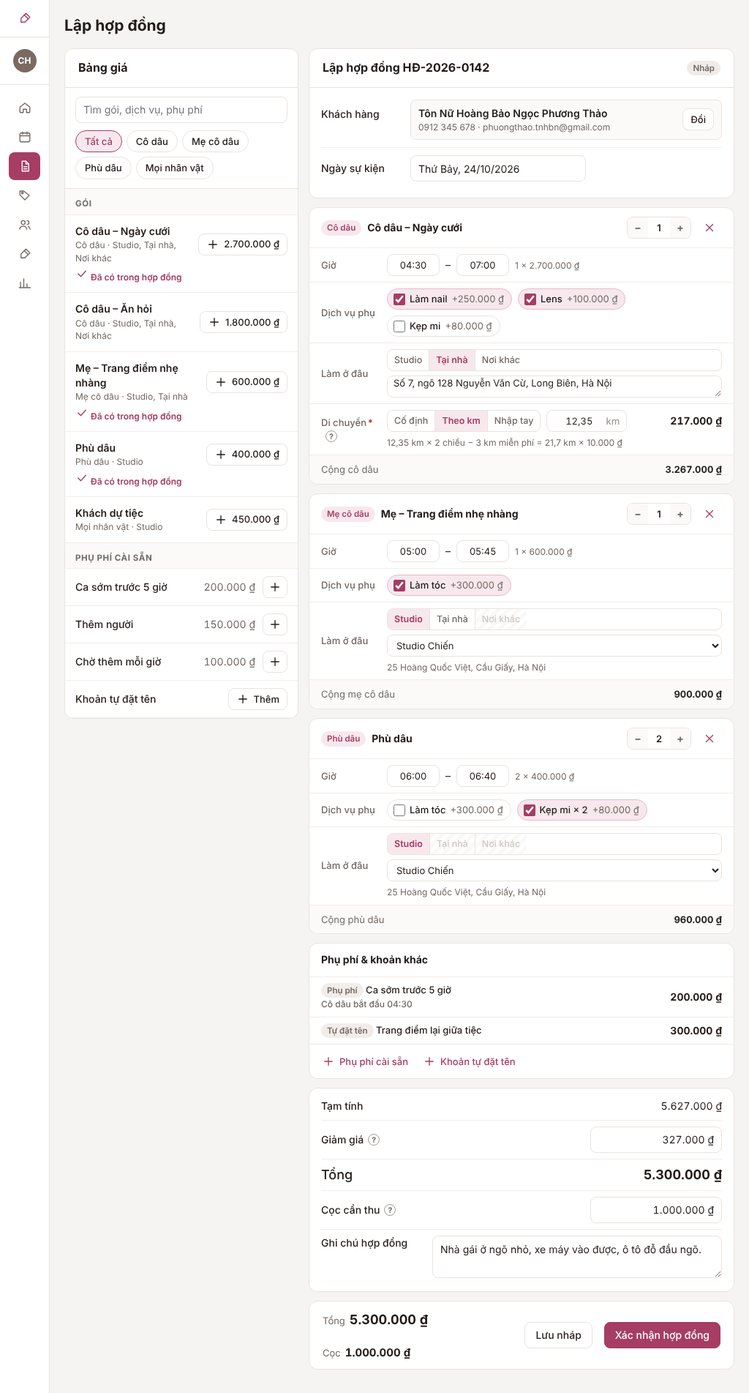
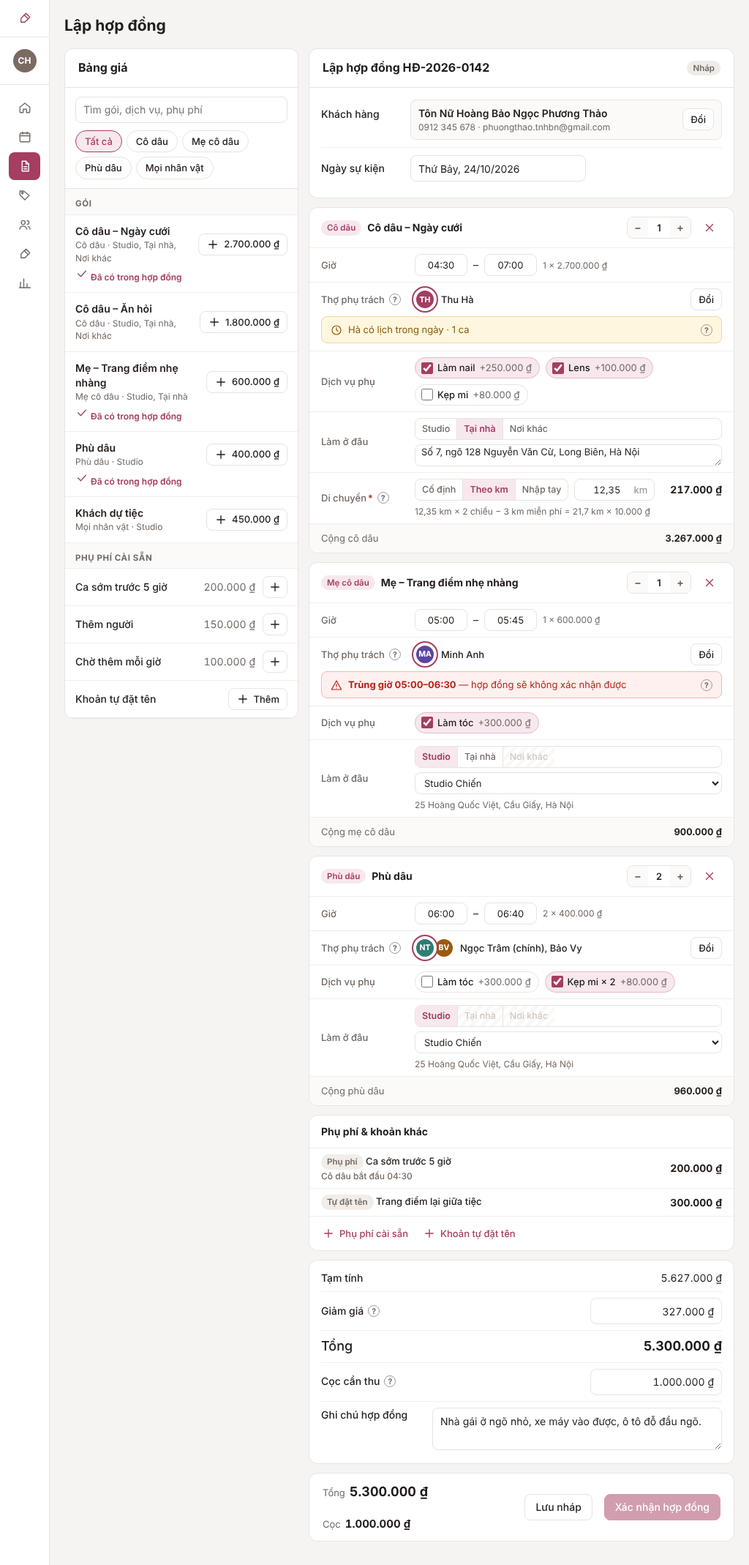
R&D: hàng Thợ phụ trách + ô chọn thợ có cảnh báo; sổ lỗi mục 13; sổ ý muốn: yêu cầu trung tâm đào tạo
Claude-Session: https://claude.ai/code/session_01JtcbzsRF6LmqL5L8fC9fxM

diff --git a/docs/rnd/v2-phuong-an-C.html b/docs/rnd/v2-phuong-an-C.html
@@ -215,7 +215,7 @@ textarea.ctl{height:auto;padding:8px 10px;resize:vertical}
 .ln2 .hd{display:flex;align-items:center;gap:8px;padding:12px 16px;flex-wrap:wrap}
 .ln2 .hd .n{font-weight:700}
 .ln2 .hd .sp{flex:1}
-.ln2 .rw{display:grid;grid-template-columns:96px minmax(0,1fr);gap:10px;align-items:center;padding:8px 16px;border-top:1px solid var(--line-2)}
+.ln2 .rw{display:grid;grid-template-columns:118px minmax(0,1fr);gap:10px;align-items:center;padding:8px 16px;border-top:1px solid var(--line-2)}
 .ln2 .rw>span:first-child{font-size:13px;color:var(--muted);font-weight:500}
 .ln2 .rw .fl{display:flex;flex-wrap:wrap;gap:8px;align-items:center}
 .ln2 .ft{display:flex;justify-content:space-between;padding:10px 16px;border-top:1px solid var(--line-2);background:var(--soft);border-radius:0 0 12px 12px;font-size:13px}
@@ -237,7 +237,7 @@ textarea.ctl{height:auto;padding:8px 10px;resize:vertical}
   .pg3{grid-template-columns:180px minmax(0,1fr) 320px}
   .drw .set{grid-template-columns:minmax(0,1fr) 140px}
   .hd2{grid-template-columns:320px minmax(0,1fr);gap:14px}
-  .ln2 .rw{grid-template-columns:80px minmax(0,1fr)}
+  .ln2 .rw{grid-template-columns:118px minmax(0,1fr)}
 }
 @media (max-width:640px){
   .pg3{grid-template-columns:minmax(0,1fr);min-height:0}
@@ -286,6 +286,36 @@ textarea.ctl{height:auto;padding:8px 10px;resize:vertical}
   .dlg-bg{display:none}
   .mfoot{display:flex;justify-content:flex-end;gap:8px;margin-top:12px}
 }
+
+/* Thợ phụ trách (bổ sung 18/10/2026) */
+.ln2 .rw .tn{font-size:13px;font-weight:500;min-width:0}
+.ln2 .rw .grow{flex:1}
+.ln2 .rw.tho .avs .av+.av{margin-left:-2px}
+.av.chinh{box-shadow:0 0 0 2px #fff,0 0 0 4px var(--accent)}
+.avs .av.chinh{position:relative;z-index:1}
+.lnk{color:var(--accent);font-weight:600;font-size:13px;text-decoration:none}
+.wb{display:flex;align-items:center;gap:8px;margin:0 16px 10px;padding:8px 12px;border-radius:8px;font-size:13px;border:1px solid}
+.wb svg{width:16px;height:16px}
+.wb span{flex:1;min-width:0}
+.wb.red{background:var(--danger-bg);border-color:var(--danger-line);color:var(--danger)}
+.wb.yel{background:var(--warn-bg);border-color:var(--warn-line);color:var(--warn)}
+.btn:disabled{opacity:.5;cursor:not-allowed}
+.pick-t{width:min(560px,100%)}
+.pk-ls{overflow:auto}
+.pr-t{display:flex;align-items:center;gap:10px;padding:10px 18px;border-bottom:1px solid var(--line-2);cursor:pointer}
+.pr-t.on{background:var(--accent-soft)}
+.pr-t.off{color:var(--faint);cursor:not-allowed}
+.pr-t.off .av{opacity:.45}
+.pr-t .tt2{flex:1;min-width:0;display:flex;flex-direction:column;gap:3px}
+.pr-t .tt2 b{font-weight:600}
+.pr-t .nh{display:flex;flex-wrap:wrap;gap:6px;align-items:center}
+.pr-t .role{flex:none}
+.sd summary{list-style:none;cursor:pointer}
+.sd summary::-webkit-details-marker{display:none}
+.sd[open] .fx{margin-top:4px}
+.pk-ft{display:flex;justify-content:flex-end;gap:8px;padding:12px 18px;border-top:1px solid var(--line)}
+@media (min-width:641px){ .sheet{display:none!important} }
+@media (max-width:640px){ .wb{margin:0 14px 10px} .pr-t{padding:10px 14px} }
 
 </style>
 </head>
@@ -534,6 +564,67 @@ function veNhom(k,tieu){
   if(k==='dc')body=`<div class="dcg">${nhomDiChuyen().map(x=>`<div class="card" style="padding:0 18px 8px">${khoiNhom(x)}</div>`).join('')}</div>`;
   return `<div class="ph"><h1>${tieu}</h1></div>${seg}${body}`;
 }
+
+/* ---------- THỢ PHỤ TRÁCH (bổ sung 18/10/2026) ----------
+   Dòng gói: lines[].staff[{membershipId, role PRIMARY|ASSIST}]
+   Ô chọn:   GET /orgs/:orgId/staff/availability?startsAt&endsAt&excludeContractId
+             → mỗi thợ {displayName, avatarUrl, initials, tier, isBookable, level OVERLAP|SAME_DAY|FREE, overlaps[], sameDay[], draftHolds[]}
+   Cảnh báo trong thẻ: quote.staffWarnings theo dòng */
+const THO=[
+ {id:'m1',ten:'Nguyễn Thu Hà',vt:'TH',mau:'#A63D62',bac:'Thợ chính bậc 1',nhan:true},
+ {id:'m2',ten:'Trần Minh Anh',vt:'MA',mau:'#5B45A0',bac:'Thợ chính bậc 1',nhan:true},
+ {id:'m3',ten:'Lê Ngọc Trâm',vt:'NT',mau:'#2F7D72',bac:'Thợ chính bậc 2',nhan:true},
+ {id:'m4',ten:'Phạm Bảo Vy',vt:'BV',mau:'#9A5B0F',bac:'Thợ phụ',nhan:true},
+ {id:'m5',ten:'Đỗ Khánh Linh',vt:'KL',mau:'#7A6A62',bac:'Thợ phụ',nhan:false},
+];
+const tho=id=>THO.find(t=>t.id===id);
+// Thợ đã gán cho từng dòng
+const GAN={l1:[['m1','PRIMARY']],l2:[['m2','PRIMARY']],l3:[['m3','PRIMARY'],['m4','ASSIST']]};
+// Hợp đồng đã xác nhận: dòng mẹ cô dâu đã đổi sang Ngọc Trâm (không trùng giờ) trước khi xác nhận
+const GAN_XN={...GAN,l2:[['m3','PRIMARY']]};
+// Cảnh báo theo dòng (quote.staffWarnings) — level OVERLAP | SAME_DAY
+const CANHBAO={
+ l1:[{tho:'m1',level:'SAME_DAY',ca:[['10:00','11:00','Makeup tiệc · Đỗ Quỳnh Như']]}],
+ l2:[{tho:'m2',level:'OVERLAP',ca:[['05:00','06:30','Makeup ăn hỏi · Vũ Hồng Nhung']]}],
+ l3:[],
+};
+// Tình trạng thợ cho ô chọn của dòng Mẹ cô dâu 05:00–05:45 (availability)
+const RANH={
+ m1:{level:'OVERLAP',ca:[['04:30','07:00','Dòng Cô dâu của hợp đồng này']]},
+ m2:{level:'OVERLAP',ca:[['05:00','06:30','Makeup ăn hỏi · Vũ Hồng Nhung']]},
+ m3:{level:'FREE',ca:[],nhap:'HĐ-2026-0139 (nháp) 05:00–06:00'},
+ m4:{level:'SAME_DAY',ca:[['08:00','08:45','Makeup mẹ cô dâu · Cô Phạm Thị Hồng'],['11:00','12:00','Makeup kỷ yếu · Lớp 12A1']]},
+ m5:{level:'FREE',ca:[]},
+};
+function hangTho(d,xn){
+  const g=(xn?GAN_XN:GAN)[d.id]||[];
+  const avs=g.map(([id,r])=>{const t=tho(id);return `<span class="av sm ${r==='PRIMARY'?'chinh':''}" style="background:${t.mau}" title="${t.ten} · ${r==='PRIMARY'?'thợ chính':'thợ phụ'}">${t.vt}</span>`}).join('');
+  const ten=g.map(([id,r])=>tho(id).ten.split(' ').slice(-2).join(' ')+(g.length>1&&r==='PRIMARY'?' (chính)':'')).join(', ');
+  const nut=xn?`<a class="lnk" href="#lich" title="Thợ của hợp đồng đã xác nhận được đổi ở màn Lịch">Đổi ở Lịch</a>`:`<a class="btn sm" href="#hop-dong-tho">${g.length?'Đổi':'Chọn thợ'}</a>`;
+  return `<div class="rw tho"><span>Thợ phụ trách${tip('Dấu viền màu = thợ chính. Thợ phụ đi kèm hỗ trợ. Khi xác nhận hợp đồng, máy sẽ tạo lịch cho các thợ này.')}</span><div class="fl"><span class="avs">${avs}</span><span class="tn">${ten||'<span class="faint">Chưa chọn</span>'}</span><span class="grow"></span>${nut}</div></div>`;
+}
+function daiCanhBao(d,xn){
+  if(xn)return '';
+  return (CANHBAO[d.id]||[]).map(w=>{const t=tho(w.tho);const gio=w.ca.map(c=>c[0]+'–'+c[1]).join(', ');
+    return w.level==='OVERLAP'
+     ?`<div class="wb red">${ic('warn')}<span><b>Trùng giờ ${gio}</b> — hợp đồng sẽ không xác nhận được</span>${tip(t.ten+' đã có: '+w.ca.map(c=>c[0]+'–'+c[1]+' '+c[2]).join('; ')+'. Đổi thợ hoặc đổi giờ.')}</div>`
+     :`<div class="wb yel">${ic('clock')}<span>${t.ten.split(' ').pop()} có lịch trong ngày · ${w.ca.length} ca</span>${tip(w.ca.map(c=>c[0]+'–'+c[1]+' '+c[2]).join('; ')+'. Không trùng giờ, chỉ để biết.')}</div>`}).join('');
+}
+function oChonTho(){
+  const d=DONG.find(x=>x.id==='l2');const chon=(GAN.l2||[]).map(x=>x[0]);
+  const bacs=[...new Set(THO.map(t=>t.bac))];
+  const dong=t=>{const r=RANH[t.id];const on=chon.includes(t.id);
+    let nhan='';
+    if(!t.nhan)nhan=`<span class="tag">Tắt nhận lịch</span>`;
+    else if(r.level==='OVERLAP')nhan=`<span class="tag huy">Trùng giờ ${r.ca.map(c=>c[0]+'–'+c[1]).join(', ')}</span>${tip(r.ca.map(c=>c[0]+'–'+c[1]+' '+c[2]).join('; '))}`;
+    else if(r.level==='SAME_DAY')nhan=`<details class="sd"><summary class="tag ps">Có lịch trong ngày · ${r.ca.length} ca</summary><div class="fx">${r.ca.map(c=>`${c[0]}–${c[1]} · ${c[2]}`).join('<br>')}</div></details>`;
+    if(r.nhap)nhan+=`<span class="tag" title="Đang nằm trong một hợp đồng nháp khác cùng giờ. Chưa chặn lịch.">Giữ chỗ nháp</span>`;
+    return `<label class="pr-t ${t.nhan?'':'off'} ${on?'on':''}"><input type="checkbox" ${on?'checked':''} ${t.nhan?'':'disabled'}><span class="av sm" style="background:${t.mau}">${t.vt}</span><span class="tt2"><b>${t.ten}</b><span class="nh">${nhan}</span></span>${on?`<span class="seg sm role"><button class="on">Chính</button><button>Phụ</button></span>`:''}</label>`};
+  return `<div class="ch2"><div style="flex:1;min-width:0"><h2>Chọn thợ phụ trách</h2><div class="fx">Mẹ cô dâu · ${d.gio} · Thứ Bảy 24/10</div></div><a class="btn icon sm ghost" href="#hop-dong" title="Đóng">${ic('x')}</a></div>
+   <div class="pk-ls">${bacs.map(b=>`<div class="lbl">${b}</div>${THO.filter(t=>t.bac===b).map(dong).join('')}`).join('')}</div>
+   <footer class="pk-ft"><a class="btn" href="#hop-dong">Huỷ</a><a class="btn pri" href="#hop-dong">Chọn</a></footer>`;
+}
+
 /* ---------- HỢP ĐỒNG: bảng giá trái, hợp đồng phải ---------- */
 function boChon(xn){
   const pk=g=>`<div class="pk"><div style="min-width:0"><div class="n">${g.ten}</div><div class="m">${nvTen(g.nv)} · ${g.dd.map(k=>DDN[k]).join(', ')}</div></div><button class="btn sm">${ic('plus')}${vnd(giaGoi(g))}</button>
@@ -549,12 +640,13 @@ function dongHD(d,xn){
   const dis=xn?'disabled':'';
   return `<div class="ln2 ${xn?'locked':''}"><div class="hd"><span class="ttl"><span class="tag nv">${nvTen(d.nv)}</span><span class="n">${g.ten}</span>${xn?ic('lock'):''}</span><span class="sp"></span>${xn?`<span class="fx">${d.sl} người</span><button class="btn ghost sm" title="Huỷ dòng này (bắt buộc ghi lý do)">Huỷ dòng</button>`:`<span class="qty"><button>−</button><span>${d.sl}</span><button>+</button></span><button class="btn icon sm ghost" title="Bỏ">${ic('x')}</button>`}</div>
     <div class="rw"><span>Giờ</span><div class="fl"><input class="ctl sm" style="width:72px;text-align:center" value="${d.gio.split(' – ')[0]}" ${dis}>–<input class="ctl sm" style="width:72px;text-align:center" value="${d.gio.split(' – ')[1]}" ${dis}><span class="fx">${d.sl} × ${vnd(dg)}</span></div></div>
+    ${hangTho(d,xn)}${daiCanhBao(d,xn)}
     <div class="rw"><span>Dịch vụ phụ</span><div class="fl">${g.tick.map(a=>{const s=dv(a);const on=!!d.them[a];const huy=xn&&XN.huy[d.id+'-'+a];return `<label class="ck ${on?'on':''} ${huy?'void':''}" ${huy?`title="Đã huỷ: ${huy}"`:''}><input type="checkbox" ${on?'checked':''} ${dis}>${s.ten}${on&&d.them[a]>1?' × '+d.them[a]:''} <span class="p">+${vnd(s.gia)}</span></label>${huy?`<span class="tag huy">Đã huỷ: ${huy}</span>`:''}`}).join('')}</div></div>
     <div class="rw"><span>Làm ở đâu</span><div class="dcr">${segDD(g,d.dd)}${oDiaDiem(d,xn,true)}</div></div>
     ${d.dd!=='STUDIO'?`<div class="rw"><span>Di chuyển<span class="req">*</span>${tip(TIP_DC)}</span><div class="dcr"><div class="fl">${segDC(d,xn)}${oKm(d,xn)}<b class="num" style="margin-left:auto">${vnd(tienDC(d))}</b></div>${d.dm==='PER_KM'?`<div class="fx">${congThucKm(d)}</div>`:''}</div></div>`:''}
     <div class="ft"><span class="muted">Cộng ${nvTen(d.nv).toLowerCase()}</span><b class="num">${vnd(sub)}</b></div></div>`;
 }
-function veHopDong(xn,sheet){
+function veHopDong(xn,sheet,chonTho){
   const T=tong(xn);const dis=xn?'disabled':'';
   const khac=bangTinh(xn).filter(x=>!x.d);
   const ct=`<div class="ct">
@@ -571,10 +663,11 @@ function veHopDong(xn,sheet){
       <div class="set"><label class="big">Tổng</label><span class="r num big">${vnd(T.tong)}</span></div>
       <div class="set"><label>Cọc cần thu${tip(TIP_COC)}</label><input class="ctl money" value="${vnd(T.coc)}" ${dis}></div>
       <div class="set note" style="align-items:start"><label>Ghi chú hợp đồng</label><textarea class="ctl" rows="2">${HD.ghichu}</textarea></div></div></div>
-    <div class="sumbar" style="margin-top:0"><div class="t"><span>Tổng<b class="num">${vnd(T.tong)}</b></span><span class="coc">Cọc<b class="num">${vnd(T.coc)}</b></span></div>${xn?`<button class="btn pri">${ic('plus')}Phát sinh</button>`:`<button class="btn hide-m">Lưu nháp</button><button class="btn pri">Xác nhận hợp đồng</button>`}</div>
+    <div class="sumbar" style="margin-top:0"><div class="t"><span>Tổng<b class="num">${vnd(T.tong)}</b></span><span class="coc">Cọc<b class="num">${vnd(T.coc)}</b></span></div>${xn?`<button class="btn pri">${ic('plus')}Phát sinh</button>`:`<button class="btn hide-m">Lưu nháp</button><button class="btn pri" disabled title="Còn 1 dòng thợ trùng giờ. Đổi thợ hoặc đổi giờ trước khi xác nhận.">Xác nhận hợp đồng</button>`}</div>
   </div>`;
   return `<div class="ph"><h1>${xn?'Hợp đồng':'Lập hợp đồng'}</h1><span class="sp"></span></div>
    <div class="hd2"><div class="card pick"><div class="ch2"><h2>${xn?'Thêm phát sinh':'Bảng giá'}</h2></div>${boChon(xn)}</div>${ct}</div>
+   ${chonTho?`<div class="dlg-bg"><div class="dlg pick-t">${oChonTho()}</div></div><div class="sheet"><div class="pane"><div class="grab"></div>${oChonTho()}</div></div>`:''}
    ${sheet?`<div class="sheet"><div class="pane"><div class="grab"></div><div class="ch2"><h2>Thêm từ bảng giá</h2><button class="btn icon sm ghost">${ic('x')}</button></div>${boChon(false)}</div></div>`:''}`;
 }
 const MAN={
@@ -586,6 +679,7 @@ const MAN={
   'bang-gia-nv':{nhom:'bang-gia',con:3,tieude:'Bảng giá',ve:()=>veNhom('nv','Nhân vật')},
   'hop-dong':{nhom:'hop-dong',con:0,tieude:'Lập hợp đồng '+HD.ma,tact:'<span class="tag draft">Nháp</span>',sum:true,ve:()=>veHopDong(false)},
   'hop-dong-chon':{nhom:'hop-dong',con:0,tieude:'Lập hợp đồng '+HD.ma,tact:'<span class="tag draft">Nháp</span>',sum:true,ve:()=>veHopDong(false,true)},
+  'hop-dong-tho':{nhom:'hop-dong',con:0,tieude:'Lập hợp đồng '+HD.ma,tact:'<span class="tag draft">Nháp</span>',sum:true,ve:()=>veHopDong(false,false,true)},
   'hop-dong-xn':{nhom:'hop-dong',con:1,tieude:'Hợp đồng '+HD.ma,tact:'<span class="tag ok">Đã xác nhận</span>',sum:true,ve:()=>veHopDong(true)},
 };
 route();

diff --git a/docs/rnd/BAN-VE-C.md b/docs/rnd/BAN-VE-C.md
@@ -398,12 +398,72 @@ Bản mẫu: `#hop-dong`, `#hop-dong-chon`, `#hop-dong-xn`.
 |---|---|---|
 | Đầu thẻ | nhãn nhân vật · tên gói · Qty · nút ✕ bỏ dòng | `kind: 'PACKAGE', packageId, subjectId` (mặc định lấy `subjectId` của gói, đổi được), `quantity` |
 | Giờ | 2 ô giờ "04:30 – 07:00" + chữ "1 × 2.700.000 ₫" | `scheduledStart, scheduledEnd` (ghép với `eventDate`) |
+| **Thợ phụ trách** ? *(bổ sung 18/10/2026)* | AvatarStack thợ đã chọn (thợ chính có viền màu) · tên rút gọn (nhiều thợ thì thêm "(chính)") · nút "Đổi" / "Chọn thợ" mở StaffPicker. Ngay dưới hàng là StaffWarningBanner nếu có cảnh báo. | `staff[{membershipId, role PRIMARY\|ASSIST}]` |
 | Dịch vụ phụ | CheckChip cho từng dịch vụ trong `items` có `isOptional = true`, kèm "+giá". Số lượng mặc định bằng số lượng dòng (Phù dâu × 2 → Kẹp mi × 2) | `addons[{serviceId, quantity}]` |
 | Làm ở đâu | Segmented Studio / Tại nhà / Nơi khác. Loại gói không cho phép thì khoá, tooltip "Gói này không làm …" | `locationType` |
 | ↳ Studio | Select tên studio + địa chỉ 12px dưới | `studioLocationId` |
 | ↳ Tại nhà, Nơi khác | Textarea địa chỉ 2 dòng | `address` |
 | Di chuyển `*` ? (chỉ khi Tại nhà hoặc Nơi khác; **bắt buộc**) | Segmented Cố định / Theo km / Nhập tay (mặc định `defaultMode`) · ô km (Theo km) hoặc MoneyInput (Nhập tay) · số tiền căn phải · dòng công thức 12px | `travel{mode, distanceKm?, amount?}`. Nhập tay bắt buộc `amount` (miễn phí = 0). Cố định và Theo km **không gửi** `amount`. |
 | Chân thẻ | "Cộng {nhân vật}" · số tiền | tổng `lineTotal` của dòng gói + addons + travel lấy từ `quote` |
+
+**Thợ phụ trách và cảnh báo trùng giờ** *(bổ sung 18/10/2026)*
+
+Ghi theo đặc tả điều phối gửi. Lúc vẽ, mã máy chủ **chưa có** các đường và trường này; khi máy chủ xong phải đối chiếu lại tên trường.
+
+Bản mẫu: `#hop-dong` (hàng thợ và dải cảnh báo), `#hop-dong-tho` (ô chọn thợ), `#hop-dong-xn` (đã xác nhận).
+
+Ảnh:
+- /home/user/a/docs/rnd/anh/v2-phuong-an-C-hop-dong-desktop.png
+- /home/user/a/docs/rnd/anh/v2-phuong-an-C-hop-dong-tablet.png
+- /home/user/a/docs/rnd/anh/v2-phuong-an-C-hop-dong-mobile.png
+- /home/user/a/docs/rnd/anh/v2-phuong-an-C-hop-dong-chon-tho-desktop.png
+- /home/user/a/docs/rnd/anh/v2-phuong-an-C-hop-dong-chon-tho-mobile.png
+- /home/user/a/docs/rnd/anh/v2-phuong-an-C-hop-dong-xac-nhan-desktop.png
+
+*Hàng "Thợ phụ trách"* — nằm ngay dưới hàng "Giờ"; cột nhãn rộng 118px.
+- Avatar 28px. Thợ chính có viền `box-shadow: 0 0 0 2px #fff, 0 0 0 4px var(--accent)`.
+- Tooltip "?" giải thích viền màu và việc tạo lịch khi xác nhận.
+- Chưa chọn thợ: chữ "Chưa chọn" màu `--faint` + nút "Chọn thợ".
+
+*StaffWarningBanner* — trong thẻ dòng, lề 0 16 10.
+- Nguồn: `quote.staffWarnings` của dòng đó.
+- Mỗi cảnh báo một dải, chữ 13px, bo 8. Chi tiết (giờ, tên ca, khách) nằm trong tooltip "?". Không viết thêm chữ khác.
+
+| Mức | Màu | Chữ trên dải |
+|---|---|---|
+| `OVERLAP` | đỏ: `--danger-bg` / `--danger-line` / `--danger` | biểu tượng cảnh báo · "**Trùng giờ 05:00–06:30** — hợp đồng sẽ không xác nhận được" |
+| `SAME_DAY` | vàng: `--warn-bg` / `--warn-line` / `--warn` | biểu tượng đồng hồ · "{tên} có lịch trong ngày · n ca" |
+
+- Còn ít nhất một dải đỏ: nút "Xác nhận hợp đồng" ở thanh tổng bị **khoá**, tooltip "Còn n dòng thợ trùng giờ. Đổi thợ hoặc đổi giờ trước khi xác nhận."
+- Máy chủ vẫn là chốt chặn cuối: nếu trả **409** khi xác nhận, hợp đồng vẫn ở trạng thái nháp. Giao diện gọi lại `quote` rồi hiện dải đỏ ở đúng dòng.
+
+*StaffPicker* — máy tính và máy tính bảng: Dialog rộng `min(560px, 100%)`; điện thoại: BottomSheet.
+- **Đầu hộp:** "Chọn thợ phụ trách" + dòng phụ "{nhân vật} · {giờ} · {ngày}".
+- **Thân hộp:** thợ nhóm theo **bậc** (tiêu đề nhóm viết hoa 11.5px trên nền `--soft`, xếp theo `tier.sortOrder`).
+- **Mỗi dòng thợ** (đệm 10 18):
+  - Checkbox · Avatar 28 · tên 14 / 600 · hàng nhãn trạng thái.
+  - Dòng đang chọn: nền `--accent-soft`, bên phải có Segmented "Chính / Phụ" (`role`). Mỗi dòng gói tối đa một thợ chính.
+- **Nhãn trạng thái:**
+
+| Tình trạng | Nhãn |
+|---|---|
+| `FREE` | không nhãn |
+| `SAME_DAY` | nhãn vàng "Có lịch trong ngày · n ca". Bấm vào thì mở ra danh sách giờ, 12px. |
+| `OVERLAP` | nhãn đỏ "Trùng giờ 05:00–06:30" + tooltip chi tiết. **Vẫn chọn được**: chủ studio có thể đang định đổi giờ ca kia. Cảnh báo sẽ hiện trong thẻ dòng. |
+| Có `draftHolds` | thêm nhãn xám "Giữ chỗ nháp", tooltip "Đang nằm trong một hợp đồng nháp khác cùng giờ. Chưa chặn lịch." |
+| `isBookable = false` | nhãn xám "Tắt nhận lịch". Checkbox khoá, cả dòng mờ. |
+
+- **Chân hộp:** "Huỷ" · "Chọn". Bấm "Chọn" ghi `staff` vào dòng rồi gọi lại `quote`.
+
+| Ô | Đường API | Trường |
+|---|---|---|
+| Danh sách thợ và tình trạng | Đ `GET /orgs/:orgId/staff/availability?startsAt&endsAt&excludeContractId` (`startsAt/endsAt` = `scheduledStart/End` của dòng; `excludeContractId` = hợp đồng đang sửa, khi đã có id) | mỗi thợ `{displayName, avatarUrl, initials, tier, isBookable, level OVERLAP\|SAME_DAY\|FREE, overlaps[], sameDay[], draftHolds[]}` |
+| Thợ đã chọn | G trong thân `POST /contracts` / `PATCH /contracts/:id` / `POST /contracts/quote` | `lines[i].staff[{membershipId, role}]` |
+| Dải cảnh báo trong thẻ | Đ `POST /contracts/quote` | `staffWarnings` theo dòng |
+| Xác nhận | G `POST /contracts/:id/status {to: 'CONFIRMED'}` | Máy chủ tạo lịch cho các thợ. Trùng giờ → 409, hợp đồng vẫn `DRAFT`. |
+
+- Thợ trùng giờ **trong chính hợp đồng này** (ví dụ cùng một thợ được gán cho dòng cô dâu 04:30–07:00 và dòng mẹ 05:00–05:45) cũng hiện là `OVERLAP`. Ô chọn ghi "Dòng Cô dâu của hợp đồng này" trong tooltip.
+- *Hợp đồng đã xác nhận:* hàng thợ **chỉ xem**. Thay nút "Đổi" bằng liên kết "Đổi ở Lịch", mở màn Lịch đúng ca đó (thợ của ca đã tạo đổi bằng `PATCH /appointments/:id {staff}`). Không hiện dải cảnh báo.
 
 **Dòng công thức Theo km**
 - Hiện theo `computeTravelFee` (/home/user/a/packages/shared/src/contract.ts): `{km} km × 2 chiều − {freeKm} km miễn phí = {km tính tiền} km × {perKmAmount}`.
@@ -495,7 +555,7 @@ Bản mẫu: `#hop-dong`, `#hop-dong-chon`, `#hop-dong-xn`.
 | `customers.read` / `customers.write` | Tìm khách / Khách mới |
 | `schedule.read_own` | Lịch (người chỉ có quyền này chỉ thấy ca của mình) |
 | `schedule.write` | Thêm, sửa, dời ca |
-| `staff.read` | Hàng hoặc cột thợ, avatar |
+| `staff.read` | Hàng hoặc cột thợ, avatar; ô chọn thợ trong hợp đồng (bổ sung 18/10/2026) |
 
 ---
 
@@ -508,11 +568,11 @@ Mỗi gói chỉ ghi vào nhóm tệp của mình. Tệp dùng chung (`src/ui/in
 | Gói | Tệp sở hữu | Nội dung | Phụ thuộc |
 |---|---|---|---|
 | **W0 Nền** | `apps/web/package.json`, `vite.config.ts`, `tsconfig.json`, `index.html`, `public/fonts/*`, `src/main.tsx`, `src/app/App.tsx`, `src/app/routes.tsx`, `src/styles/tokens.css`, `src/styles/base.css` | Dự án, phông tự chứa, token mục 1 (y nguyên tên biến), khung định tuyến rỗng (`/lich`, `/hop-dong`, `/hop-dong/:id`, `/bang-gia/:nhom`) | — |
-| **W1 Gọi API** | `src/api/client.ts`, `src/api/errors.ts`, `src/api/idempotency.ts`, `src/api/auth.ts`, `src/api/catalog.ts`, `src/api/contracts.ts`, `src/api/schedule.ts`, `src/api/staff.ts`, `src/api/types.ts` | fetch kèm token và `orgId`; ánh xạ lỗi 400/401/403/404/409; một hàm cho mỗi đường ở mục 4; `useQuote` (đợi 300ms, huỷ yêu cầu cũ) | W0 |
+| **W1 Gọi API** | `src/api/client.ts`, `src/api/errors.ts`, `src/api/idempotency.ts`, `src/api/auth.ts`, `src/api/catalog.ts`, `src/api/contracts.ts`, `src/api/schedule.ts`, `src/api/staff.ts`, `src/api/types.ts` | fetch kèm token và `orgId`; ánh xạ lỗi 400/401/403/404/409; một hàm cho mỗi đường ở mục 4, kể cả `GET /staff/availability` (bổ sung 18/10/2026); `useQuote` (đợi 300ms, huỷ yêu cầu cũ) | W0 |
 | **W2 Component** | `src/ui/*.tsx` (Button, TextInput, Textarea, MoneyInput, UnitInput, Select, Checkbox, CheckChip, Switch, Segmented, Qty, Card, Dialog, BottomSheet, Tooltip, Avatar, AvatarStack, StatusTag, Chip, StickyTotalBar, EmptyState, Skeleton), `src/ui/index.ts`, `src/ui/format.ts` (`formatVnd`, `formatKm`, `parseMoney`, `parseKm`) | Mục 3, đủ 6 trạng thái; bài thử cho MoneyInput/UnitInput (dấu chấm, dấu phẩy, giới hạn) | W0 |
 | **W3 Khung** | `src/layout/AppShell.tsx`, `Sidebar.tsx`, `TopBar.tsx`, `BottomNav.tsx`, `PageHeader.tsx`, `nav.ts`, `usePermissions.ts` | Mục 2, ẩn mục theo quyền (mục 6), 3 điểm gãy | W1, W2 |
 | **W4 Bảng giá** | `src/features/pricing/**` (PricingPage, SubjectCards, PackageRow, PackageDialog, groups/InfoPriceGroup, LocationsGroup, IncludedGroup, AddonsGroup, PayRatesGroup, ServicesPage, ServiceDialog, TravelPage, StudioLocations, SubjectsPage) | Mục 4.2 | W3 |
-| **W5 Hợp đồng** | `src/features/contracts/**` (ContractEditor, CatalogPicker, PickerSheet, CustomerBlock, PackageLineCard, TravelControl, ExtrasCard, TotalsCard, VoidLineDialog, ConfirmedBanner, ContractList) | Mục 4.3. **Không** nhập tệp của W4: phần chọn từ bảng giá tự đọc `src/api/catalog.ts`. | W3 (song song với W4) |
+| **W5 Hợp đồng** | `src/features/contracts/**` (ContractEditor, CatalogPicker, PickerSheet, CustomerBlock, PackageLineCard, TravelControl, ExtrasCard, TotalsCard, VoidLineDialog, ConfirmedBanner, ContractList) — *bổ sung 18/10/2026:* `src/features/contracts/StaffRow.tsx`, `StaffPicker.tsx`, `StaffWarningBanner.tsx`, `useStaffAvailability.ts` | Mục 4.3, gồm phần "Thợ phụ trách và cảnh báo trùng giờ". **Không** nhập tệp của W4: phần chọn từ bảng giá tự đọc `src/api/catalog.ts`. Hàm gọi `GET /staff/availability` đặt trong `src/api/staff.ts` (tệp của W1; W5 mở yêu cầu cho W1 thêm). | W3 (song song với W4); `useStaffAvailability` cần W1 thêm hàm gọi API |
 | **W6 Lịch** | `src/features/schedule/**` (SchedulePage, Toolbar, ModeSwitch, WeekGridC, WeekGridCMobile, DayListB, StaffColumnsA, AppointmentDialog, ConflictBanner, StatusActions) | Mục 4.1; mặc định C; luật 409 | W3 (song song với W4, W5) |
 | **W7 Kiểm thử giao diện** | `apps/web/e2e/**` (Playwright) | Chụp 3 khổ (1440, 1024, 390) cho mọi màn; kiểm không tràn ngang; so khớp số tiền với `quote` | W4, W5, W6 |
 

diff --git a/docs/SO-Y-MUON.md b/docs/SO-Y-MUON.md
@@ -15,6 +15,9 @@ Phiên đám mây không mở được `H:\Code\HO-SO-LAM-VIEC-CHIEN.md`. Các d
 | 18/10/2026 | "Và phần trả lương thợ thì sẽ có 1 mục cấu hình thợ nhân sự và có gán bậc lương nếu có nhé để 1 gói thì sẽ trả đúng theo giao diện trả lương của ssnew là sẽ hiển thị cấp bậc kèm avatar tên rồi nhập số tiền" | Bậc lương, hồ sơ thợ, tiền công theo gói/dịch vụ theo bậc (máy chủ xong, 18/18 bài thử). Màn hình: R&D vẽ. "ssnew" không có trong kho phiên này → suy ra từ lời anh tả. | Không: tính năng |
 | 18/10/2026 | "Rối quá sắp xếp theo nhóm rồi điều chỉnh lại giao diện được không?" (bác bản nháp Bảng giá v2: bảng 10 cột, ô tick trong danh sách, mọi thứ dồn một trang) | R&D vẽ lại: danh sách chỉ còn tên, nhân vật, giá; chi tiết tách nhóm có tiêu đề; các loại dữ liệu tách tab | **Có**: đề xuất thêm vào luật 7: *danh sách chỉ bày tối đa 3–4 thông tin để nhận ra món; mọi thuộc tính khác vào màn chi tiết chia nhóm; danh sách không đặt điều khiển trông bấm được nếu nó không dùng được.* Đây là lần thứ hai anh phải chê "rối" (lần đầu ở mục 0(e)). Bộ luật đang hở. |
 | 18/10/2026 | "C nhé" (khi xem chi tiết gói phương án C, R&D vòng 2) | Bảng giá theo C. Lập hợp đồng cũng theo C (quyết định thay, cùng một họ thiết kế; anh bác được). R&D sang chặng 2: bản vẽ thông số C. | Không: lựa chọn phương án |
+| 18/10/2026 | "Chỗ này không gán cho nhân sự phụ trách hả?" (màn Lập hợp đồng) | Thêm thợ phụ trách cho từng dòng; xác nhận hợp đồng thì tạo lịch | **Có, cho R&D**: ô nào sinh ra *việc phải làm* (một ca makeup) thì phải có *người làm*. R&D phải soát "ai làm, khi nào, ở đâu" cho mọi màn tạo việc. |
+| 18/10/2026 | "Và có cảnh báo nếu trùng giờ hoặc có lịch trong ngày hôm đó" | Ô chọn thợ có 3 mức: rảnh / vàng "có lịch trong ngày" / đỏ "trùng giờ" (đỏ thì không xác nhận được) | Không: tính năng |
+| 18/10/2026 | "Và trên app có tính năng khi 1 học viên đăng ký sẽ có các mẫu thiết kế chào mừng bao gồm tên học viên, khóa hoc ảnh đại diện và có tên thương hiệu trung tâm đào tạo / Dựng 20 mẫu thiết kế để người dùng nhập / Và toàn bộ thông tin khóa học bảng giá cũng phải có để làm thống kê về doanh số doanh thu bao gồm cả số tiền đặt cọc, còn lại và thực tế đã thu theo từng hợp đồng khóa học / Mỗi 1 hợp đồng được tạo sẽ có lựa chọn là khóa học hoặc dịch vụ rồi khóa học sẽ tạo và chọn theo các nhóm thực tế của trung tâm dựa vào cài đặt tên khóa / Nội dung và các thông tin hợp đồng và đặt cọc đi kèm cũng như tiến độ thanh toán và nội quy của trung tâm" | Mốc 7–9: R&D trước, rồi máy chủ, rồi giao diện (phiếu nhận việc trong chat 18/10/2026) | Không: tính năng |
 
 ## Chỗ hở của bộ luật (theo điểm (e) trong cách làm việc của anh)
 - **Hở 1:** bộ luật chưa có câu "R&D không được vẽ ô không có trong dữ liệu". Phương án A vòng 1 tự thêm "Giá theo bậc thợ", "Thời gian dọn đồ", "Cho khách đặt online" mà không ai yêu cầu. Đề xuất thêm vào luật 8: *mỗi ô trên bản mẫu phải chỉ ra được trường dữ liệu nó ghi vào; ô mới ghi vào mục "đề xuất trường mới", không vẽ lên màn.*

diff --git a/docs/rnd/BAO-CAO-RND-02.md b/docs/rnd/BAO-CAO-RND-02.md
@@ -297,3 +297,41 @@ Mã nguồn đã đọc (thư mục /tmp/claude-0/-home-user/98e5e0bd-eea6-5414-
 - **Đường `quote`:** chưa gọi thật, vì chưa chạy máy chủ cùng cơ sở dữ liệu. Số liệu trong bản mẫu là R&D tự tính theo đúng công thức trong /home/user/a/packages/shared/src/contract.ts: km × 2 chiều − `freeKm`, nhân `perKmAmount`, làm tròn lên bội 1.000 ₫, không thấp hơn `minimumAmount`. Bản nháp đầu vòng này trừ km miễn phí trước khi nhân 2 chiều (ra 187.000 ₫); đã sửa thành 217.000 ₫.
 - **Ảnh đại diện thật của thợ:** không có ảnh (không tải được ảnh từ mạng), nên bản mẫu dùng chữ viết tắt. Đúng với luật "trống → chữ viết tắt" của `StaffProfile.avatarUrl`.
 - **Máy tính bảng:** chưa chụp màn chi tiết gói của A và B; chỉ có C (…-chi-tiet-goi-tablet.png).
+
+## 11. Bổ sung 18/10/2026 — Thợ phụ trách trong hợp đồng
+
+**Câu hỏi của anh**
+- "Chỗ này không gán cho nhân sự phụ trách hả?"
+- "Và có cảnh báo nếu trùng giờ hoặc có lịch trong ngày hôm đó".
+
+**Đã thêm vào bản mẫu C** (/home/user/a/docs/rnd/v2-phuong-an-C.html)
+- **Hàng "Thợ phụ trách"** trong mỗi thẻ nhân vật, ngay dưới hàng "Giờ":
+  - chồng ảnh đại diện, thợ chính có viền màu;
+  - tên thợ;
+  - nút "Đổi".
+- **Dải cảnh báo trong thẻ:**
+  - đỏ "Trùng giờ 05:00–06:30 — hợp đồng sẽ không xác nhận được";
+  - vàng "Hà có lịch trong ngày · 1 ca";
+  - chi tiết giờ nằm trong tooltip;
+  - còn trùng giờ thì nút "Xác nhận hợp đồng" khoá.
+- **Ô chọn thợ** (máy tính: hộp thoại; điện thoại: ngăn kéo từ dưới lên):
+  - thợ xếp theo bậc;
+  - mỗi thợ có nhãn: không nhãn (rảnh) / vàng "Có lịch trong ngày · n ca" (bấm mở xem giờ) / đỏ "Trùng giờ …" / xám "Giữ chỗ nháp";
+  - thợ tắt nhận lịch thì mờ, không chọn được;
+  - người được chọn có nút chuyển Chính / Phụ.
+- **Hợp đồng đã xác nhận:** hàng thợ chỉ xem, có liên kết "Đổi ở Lịch".
+
+**Ảnh**
+- /home/user/a/docs/rnd/anh/v2-phuong-an-C-hop-dong-desktop.png
+- /home/user/a/docs/rnd/anh/v2-phuong-an-C-hop-dong-tablet.png
+- /home/user/a/docs/rnd/anh/v2-phuong-an-C-hop-dong-mobile.png
+- /home/user/a/docs/rnd/anh/v2-phuong-an-C-hop-dong-chon-tho-desktop.png
+- /home/user/a/docs/rnd/anh/v2-phuong-an-C-hop-dong-chon-tho-mobile.png
+- /home/user/a/docs/rnd/anh/v2-phuong-an-C-hop-dong-xac-nhan-desktop.png
+- /home/user/a/docs/rnd/anh/v2-phuong-an-C-hop-dong-xac-nhan-mobile.png
+
+**Nguồn dữ liệu**
+- Vẽ theo đặc tả điều phối: `lines[].staff[{membershipId, role}]`, `GET /orgs/:orgId/staff/availability`, `quote.staffWarnings`, và xác nhận trùng giờ → 409.
+- **Lúc vẽ, mã máy chủ chưa có các đường và trường này.** Bản vẽ /home/user/a/docs/rnd/BAN-VE-C.md mục 4.3 đã ghi rõ để đối chiếu lại khi máy chủ xong.
+
+**Còn mở:** hai bản mẫu A và B chưa thêm hàng thợ, vì anh đã chọn C.
